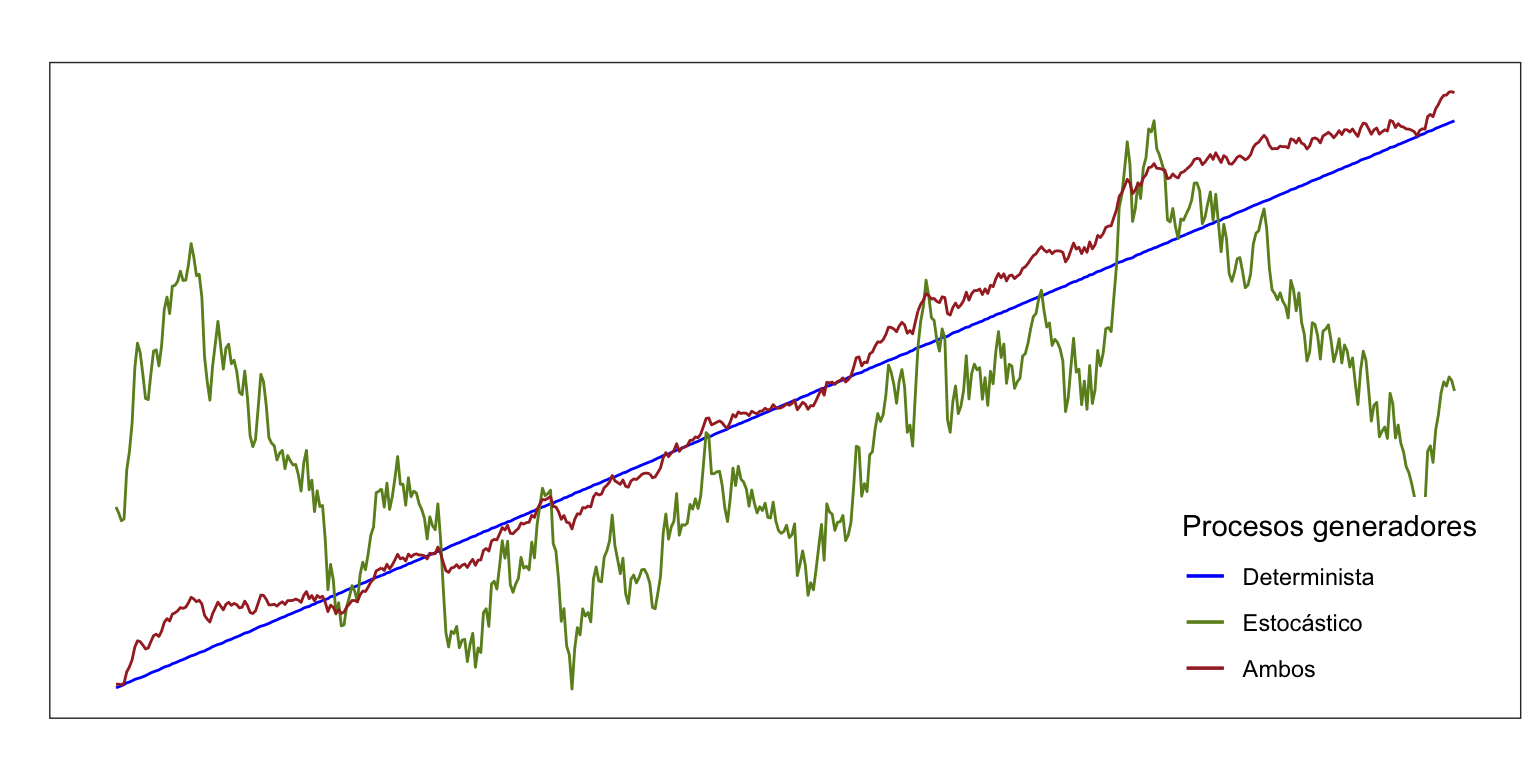
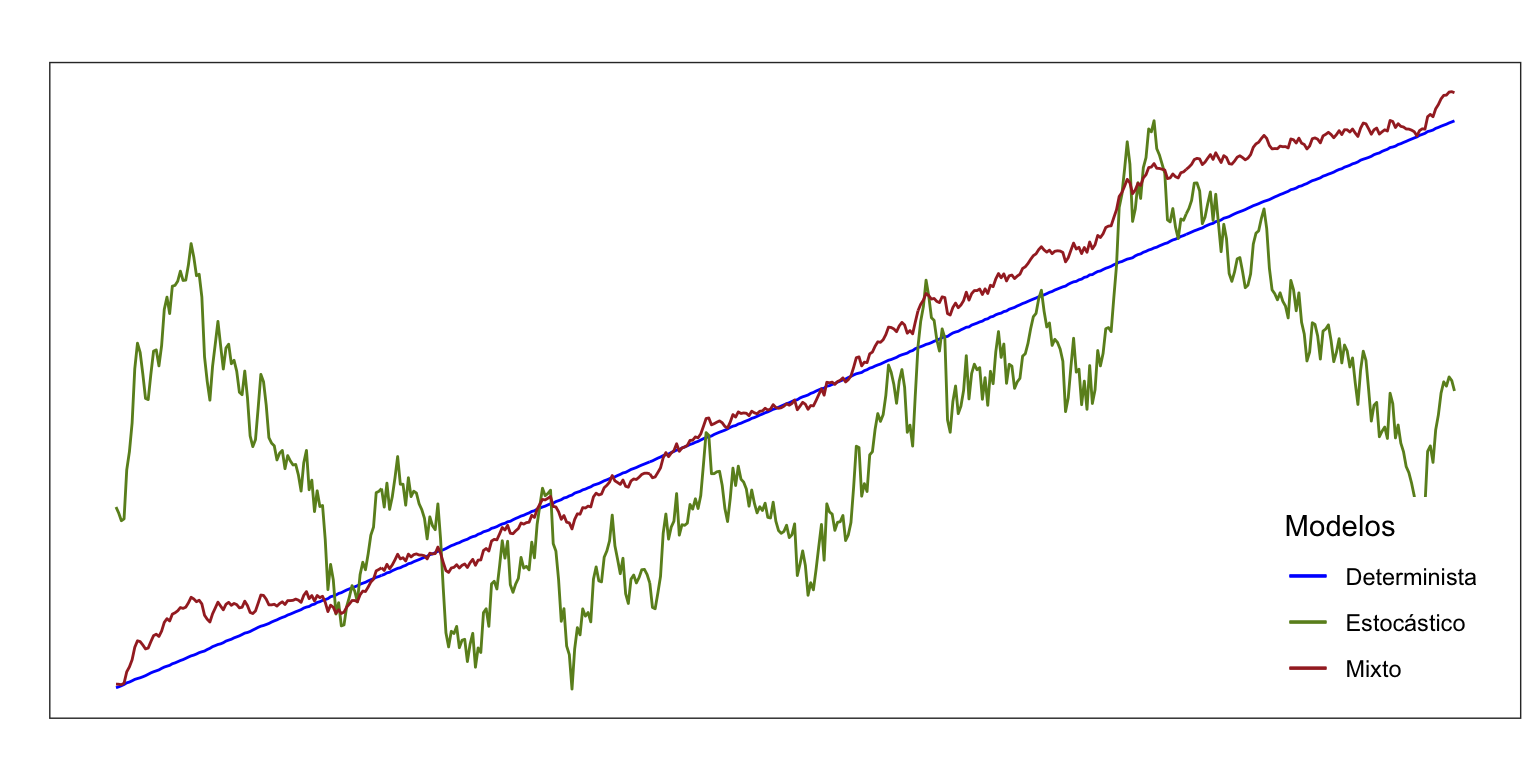
Errores en Tema 2

Changed region(s): [[0.75, 0.6562, 0.9688, 0.9062]]

diff --git a/docs/03-02-Tema2.html b/docs/03-02-Tema2.html
@@ -396,18 +396,18 @@ div.csl-indent {
 <p><strong>Una serie temporal es una variable medida secuencialmente en el tiempo a intervalos equiespaciados</strong>.</p>
 <p>La representaremos por,</p>
 <p><span class="math display">\[\{y_t\}_{t=1}^T=\{y_1,y_2,\ldots,y_T\}.\]</span></p>
-<p>La serie aparece indexada por su fechado <span class="math inline">\(t\)</span> y el subíndice <span class="math inline">\(T\)</span> hará siempre referencia a la fecha del último dato.</p>
+<p>La serie aparece indexada por su fechado <span class="math inline">\(t\)</span> y el valor <span class="math inline">\(T\)</span> hará siempre referencia a la fecha del último dato.</p>
 <p>El fechado varía en su frecuencia, que puede ser anual (baja frecuencia), trimestral, mensual, semanal, diario (alta frecuencia) o disponer casi de un continuo de datos.</p>
 <p><br>
 </p>
 </section>
 <section id="proceso-generador-de-datos" class="level2" data-number="1.2">
 <h2 data-number="1.2" class="anchored" data-anchor-id="proceso-generador-de-datos"><span class="header-section-number">1.2</span> Proceso generador de datos</h2>
-<p>El proceso generador de los datos de una serie temporal es en general desconocido, pero se puede aproximar por un modelo estadístico. Estos modelos se pueden clasificar en tres grandes familias según su naturaleza: deterministas, estocásticos y ambos.</p>
+<p>El proceso generador de los datos de una serie temporal es en general desconocido, pero se puede aproximar por un modelo estadístico. Estos modelos se pueden clasificar en tres grandes familias según su naturaleza: deterministas, estocásticos y mixtos</p>
 <p>En ocasiones las series temporales pueden ser modeladas de forma <strong>determinista</strong> ajustando los datos a funciones matemáticas: <span class="math display">\[y_t=f(t)+\varepsilon_t.\]</span></p>
-<p>En los <strong>procesos estocásticos</strong> las observaciones cercanas en el tiempo tienden a estar (cor)relacionadas y se puede aprovechar esta dependencia para entender la serie y predecirla: <span class="math display">\[y_t=f(y_{t-1},y_{t-2},\ldots)+\varepsilon_t.\]</span></p>
-<p>A veces, ambas situaciones se dan simultáneamente: <span class="math display">\[y_t=f(t,y_{t-1},y_{t-2},\ldots)+\varepsilon_t.\]</span></p>
-<p>La <a href="#fig-procesosgeneradores">Figura&nbsp;1</a> muestra un ejemplo gráfico de estos tres procesos generadores.</p>
+<p>Si las observaciones cercanas en el tiempo tienden a estar (cor)relacionadas, se puede aprovechar esta dependencia para entender la serie y predecirla con un <strong>modelo estocástico</strong>: <span class="math display">\[y_t=f(y_{t-1},y_{t-2},\ldots)+\varepsilon_t.\]</span></p>
+<p>A veces, ambas situaciones se dan simultáneamente (<strong>modelos mixtos</strong>): <span class="math display">\[y_t=f(t,y_{t-1},y_{t-2},\ldots)+\varepsilon_t.\]</span></p>
+<p>La <a href="#fig-procesosgeneradores">Figura&nbsp;1</a> muestra un ejemplo gráfico de estos tres modelos estadísticos. La complejidad de la serie es mayor en los modelos con parte estocástica.</p>
 <div class="cell" data-layout-align="center">
 <div class="cell-output-display">
 <div id="fig-procesosgeneradores" class="quarto-figure quarto-figure-center anchored">
@@ -451,7 +451,7 @@ Ojo con la lectura de datos
 <p>En cualquiera de estas funciones puedes modificar el separador decimal por medio del argumento <code>dec</code>; también puedes usar el argumento <code>sep</code> para indicar el carácter usado como separador de variables.</p>
 </div>
 </div>
-<p>La función <code>ts</code>, de la librería <code>stats</code>, convierte un objeto (vector o matriz) a la clase <em>serie temporal</em>. En este caso seleccionamos solo la segunda columna, la que contiene el número de títulos publicados.</p>
+<p>La función <code>ts</code>, de la librería <code>stats</code>, convierte un objeto (vector o matriz) en la clase <em>serie temporal</em>. En este caso seleccionamos solo la segunda columna, la que contiene el número de títulos publicados.</p>
 <ul>
 <li>Con <code>start</code> indicamos el fechado del primer dato.</li>
 <li>Con <code>frequency</code> indicamos la frecuencia, que en este caso es un dato por año.</li>
@@ -522,7 +522,7 @@ Nombre del fichero y nombre de la serie
 </div>
 <p>En este caso:</p>
 <ul>
-<li>Con <code>start</code> indicamos que el primer dato es enero de 1975. También sería correcto <code>start = 1975</code>. Si el primer dato fuera, por ejemplo, marzo de 1975, deberíamos poner <code>start = c(1975, 3)</code> o <code>start = 1975 + 2/12</code>.</li>
+<li>Con <code>start</code> indicamos que el primer dato es enero de 1975. También sería correcto <code>start = 1975</code>. Si el primer dato fuera, por ejemplo, marzo de 1975, podríamos poner <code>start = c(1975, 3)</code> o <code>start = 1975 + 2/12</code>.</li>
 <li>Con <code>frequency</code> indicamos que se tienen 12 datos (meses) por año. Si la serie fuera trimestral pondríamos <code>frequency = 4</code>.</li>
 </ul>
 <div class="cell" data-layout-align="center">
@@ -648,7 +648,7 @@ Fechado de la serie
 </div>
 </div>
 <div class="callout-body-container callout-body">
-<p>¿Tienes claro cómo se guarda internamente el fechado de una serie? ¿Qué indican los valores decimales?</p>
+<p>¿Tienes claro cómo R guarda internamente el fechado de una serie? ¿Qué indican los valores decimales?</p>
 </div>
 </div>
 <ul>
@@ -679,6 +679,7 @@ Frequency = 7
 </section>
 <section id="componentes-de-una-serie-temporal-y-su-combinación" class="level1" data-number="2">
 <h1 data-number="2"><span class="header-section-number">2</span> Componentes de una serie temporal y su combinación</h1>
+<p>Toda serie temporal es la combinación de hasta cinco componentes: tendencia, ciclo, estacionalidad, intervención y residuo.</p>
 <p><br>
 </p>
 <section id="tendencia-t_t" class="level2" data-number="2.1">
@@ -833,9 +834,7 @@ Frequency = 7
 </div>
 </div>
 </div>
-<p><br>
-</p>
-<p>Si el fechado de la serie es de muy alta frecuencia, puede ocurrir que se superponga más de una componente estacional. La <a href="#fig-estacionalidadmultiple">Figura&nbsp;10</a> muestra la serie corresponde a la demanda eléctrica (GW) recogida cada hora durante el mes de febrero de 2021. El eje OX señala el consumo la primera hora de cada día del mes (desde media noche hasta la una de la madrugada). Se aprecia una estacionalidad diaria de orden <span class="math inline">\(24\)</span>, otra semanal de orden <span class="math inline">\(7 \times 24\)</span> y si mostráramos varios años de consumo, también se observaría otra mensual.</p>
+<p>Si el fechado de la serie es de muy alta frecuencia, puede ocurrir que se superponga más de una componente estacional. La <a href="#fig-estacionalidadmultiple">Figura&nbsp;10</a> muestra la serie corresponde a la demanda eléctrica (GW) recogida cada hora durante el mes de febrero de 2021. El eje OX señala el consumo de la primera hora de cada día del mes (desde media noche hasta la una de la madrugada). Se aprecia una estacionalidad diaria de orden <span class="math inline">\(24\)</span>, otra semanal de orden <span class="math inline">\(168 =7 \times 24\)</span> y si mostráramos varios años de consumo, también se observaría otra mensual.</p>
 <div class="cell" data-layout-align="center">
 <div class="cell-output-display">
 <div id="fig-estacionalidadmultiple" class="quarto-figure quarto-figure-center anchored">
@@ -881,7 +880,7 @@ Series con más de una componente estacional
 </div>
 </div>
 </div>
-<p>En la serie diaria Electricidad cuando un día entre semana es festivo, el consumo se reduce notablemente apareciendo un efecto calendario. Si se trata de un día aislado, el efecto es muy fácil de identificar y analizar. Un ejemplo, observable en la <a href="#fig-intervencionelectricidad">Figura&nbsp;12</a>, es el martes 1 de noviembre de 2021, día de Todos los Santos, identificado con un punto rojo en la figura. Se aprecia que el consumo fue muy inferior al observado el martes precedente y posterior (puntos verdes). Si los festivos abarcan varios días, el efecto sigue siendo perfectamente identificable, pero es más complejo de analizar. Un ejemplo es la última semana de diciembre donde el consumo es muy inferior al observado en las semanas previas debido, por un lado, al efecto del día festivo de Navidad (punto azul) y, por otro lado, al periodo semi-vacacional que estas festividades supone en España. También se aprecia la intervención asociada a la semana que contiene los festivos de la Constitución y la Inmaculada (martes 6 y jueves 8 de diciembre).</p>
+<p>En la serie diaria Electricidad cuando un día entre semana es festivo, el consumo se reduce notablemente apareciendo un efecto calendario. Si se trata de un día aislado, el efecto es muy fácil de identificar y analizar. Un ejemplo, observable en la <a href="#fig-intervencionelectricidad">Figura&nbsp;12</a>, es el martes 1 de noviembre de 2022, día de Todos los Santos, identificado con un punto rojo en la figura. Se aprecia que el consumo fue muy inferior al observado el martes precedente y posterior (puntos verdes). Si los festivos abarcan varios días, el efecto sigue siendo perfectamente identificable, pero es más complejo de analizar. Un ejemplo es la última semana de diciembre donde el consumo es muy inferior al observado en las semanas previas debido, por un lado, al efecto del día festivo de Navidad (punto azul) y, por otro lado, al periodo semi-vacacional que estas festividades supone en España. También se aprecia la intervención asociada a la semana que contiene los festivos de la Constitución y la Inmaculada (martes 6 y jueves 8 de diciembre).</p>
 <div class="cell" data-layout-align="center">
 <div class="cell-output-display">
 <div id="fig-intervencionelectricidad" class="quarto-figure quarto-figure-center anchored">
@@ -896,15 +895,15 @@ Series con más de una componente estacional
 <dl>
 <dt><em>Pulso (Additive Outlier, AO)</em></dt>
 <dd>
-<p>En un periodo aislado la serie toma un valor anómalo. Por ejemplo, un día entre semana es festivo y la demanda eléctrica es inferior a la usual. Véase <a href="#fig-intervenciontipos">Figura&nbsp;13</a>, panel derecho.</p>
+<p>En un periodo aislado la serie toma un valor anómalo (véase <a href="#fig-intervenciontipos">Figura&nbsp;13</a>, panel derecho). Por ejemplo, un día entre semana es festivo y la demanda eléctrica es inferior a la usual.</p>
 </dd>
 <dt><em>Cambio transitorio (Transitory Change, TC)</em></dt>
 <dd>
-<p>En un periodo un <em>shock</em> genera un valor anómalo en la serie y el efecto del <em>shock</em> va desapareciendo poco a poco. Por ejemplo, las redes sociales ponen de moda un producto que temporalmente aumenta sus ventas, pero conforme pasa el tiempo los consumidores se olvidan del producto y sus ventas vuelven poco a poco a su nivel natural. Véase <a href="#fig-intervenciontipos">Figura&nbsp;13</a>, panel central.</p>
+<p>En un periodo un <em>shock</em> genera un valor anómalo en la serie y el efecto del <em>shock</em> va desapareciendo poco a poco (véase <a href="#fig-intervenciontipos">Figura&nbsp;13</a>, panel central). Por ejemplo, las redes sociales ponen de moda un producto que temporalmente aumenta sus ventas, pero conforme pasa el tiempo los consumidores se olvidan del producto y sus ventas vuelven poco a poco a su nivel previo</p>
 </dd>
 <dt><em>Cambio permanente (Level Shift, LS)</em></dt>
 <dd>
-<p>En un periodo la serie cambia de nivel y permanece de forma permanente en este nuevo nivel. Por ejemplo, enfrente de un supermercado abre la competencia, de forma que sus ventas descienden bruscamente de forma permanente. Véase <a href="#fig-intervenciontipos">Figura&nbsp;13</a>, panel izquierdo.</p>
+<p>En un periodo la serie cambia de nivel y permanece de forma permanente en este nuevo nivel (véase <a href="#fig-intervenciontipos">Figura&nbsp;13</a>, panel izquierdo). Por ejemplo, enfrente de un supermercado abre la competencia, de forma que sus ventas descienden bruscamente de forma permanente.</p>
 </dd>
 </dl>
 <div class="cell" data-layout-align="center">
@@ -957,7 +956,7 @@ Series con más de una componente estacional
 <p></p><figcaption class="figure-caption">Figura&nbsp;14: Ejemplo de esquema aditivo</figcaption><p></p>
 </figure>
 </div>
-<p>En el <strong>esquema multiplicativo</strong> cada componente supone un incremento porcentual respecto de las demás, <span class="math inline">\(y_t = T_t \cdot S_t \cdot C_t \cdot I_t \cdot R_t\)</span>. La serie Nacimientos es un ejemplo de esquema multiplicativo: en el gráfico superior de la <a href="#fig-esquemamultiplicativo">Figura&nbsp;15</a>, que muestra la serie, se observa que según decrece el número de nacimientos, también decrece la amplitud estacional. Además, en el gráfico inferior cada punto corresponde a un año, en el eje X los nacimientos anuales y en el eje Y la desviación típica de los nacimientos mensuales. En este gráfico se observa un patrón creciente en los puntos, revelando el esquema multiplicativo de la serie.</p>
+<p>En el <strong>esquema multiplicativo</strong> cada componente supone un incremento porcentual respecto de las demás, <span class="math inline">\(y_t = T_t \cdot S_t \cdot C_t \cdot I_t \cdot R_t\)</span>. La serie Nacimientos es un ejemplo de esquema multiplicativo: en el gráfico superior de la <a href="#fig-esquemamultiplicativo">Figura&nbsp;15</a>, que muestra la serie, se observa que según decrece el número de nacimientos, también decrece la amplitud estacional. Además, en el gráfico inferior cada punto corresponde a un año: en el eje X los nacimientos de ese año y en el eje Y la desviación típica de los nacimientos mensuales de ese año. En este gráfico se observa un patrón creciente en los puntos, revelando el esquema multiplicativo de la serie.</p>
 <div id="fig-esquemamultiplicativo" class="cell quarto-layout-panel">
 <figure class="figure">
 <div class="quarto-layout-row quarto-layout-valign-top">
@@ -1074,11 +1073,11 @@ Atención
 <section id="extracción-de-la-estacionalidad" class="level2" data-number="3.3">
 <h2 data-number="3.3" class="anchored" data-anchor-id="extracción-de-la-estacionalidad"><span class="header-section-number">3.3</span> Extracción de la estacionalidad</h2>
 <p>Tenemos varias alternativas gráficas y numéricas para analizar la estacionalidad de una serie. Veamos un ejemplo para la serie Nacimientos.</p>
-<p>Podemos hacer una gráfico de la serie <em>contra</em> cada periodo estacional. Este gráfico permite identificar el efecto de la estacionalidad en la serie y su evolución en el tiempo. Existen varias opciones para este tipo de gráficos, veremos dos de ellas: gráfico de subseries y gráfico de líneas. Para facilitar la interpretación vamos a trabajar con la serie desde el año 2000 hasta el año 2019, que denominaremos <em>nacimientosb</em>.</p>
+<p>Podemos hacer una gráfico de la serie <em>contra</em> cada periodo estacional. Este gráfico permite identificar el efecto de la estacionalidad en la serie y su evolución en el tiempo. Existen varias opciones para este tipo de gráficos, veremos dos de ellas: gráfico de subseries y gráfico de líneas. Para facilitar la interpretación vamos a trabajar con la serie desde el año 2000, que denominaremos <em>nacimientosb</em>.</p>
 <div class="cell" data-layout-align="center">
 <div class="sourceCode cell-code" id="cb28"><pre class="sourceCode r code-with-copy"><code class="sourceCode r"><span id="cb28-1"><a href="#cb28-1" aria-hidden="true" tabindex="-1"></a>nacimientosb <span class="ot">&lt;-</span> <span class="fu">window</span>(nacimientos, <span class="at">start =</span> <span class="dv">2000</span>, <span class="at">end =</span> <span class="fu">c</span>(<span class="dv">2019</span>, <span class="dv">12</span>))</span></code><button title="Copy to Clipboard" class="code-copy-button"><i class="bi"></i></button></pre></div>
 </div>
-<p>Veamos primero un ejemplo de gráfico de subseries (<a href="#fig-estacionalsubseriesnacimientos">Figura&nbsp;18</a>) que muestra para cada periodo estacional la subserie de valores de ese periodo y el valor medio de la subserie. Para las series con tendencia y esquema multiplicativo, el valor medio de las subseries (líneas horizontales) puede llevarnos a una interpretación incorrecta de la estacionalidad. (La función <code>monthplot</code> de <code>stats</code> realiza un gráfico similar.)</p>
+<p>Veamos primero un ejemplo de gráfico de subseries (<a href="#fig-estacionalsubseriesnacimientos">Figura&nbsp;18</a>) que muestra para cada periodo estacional la subserie de valores de ese periodo y el valor medio de la subserie (líneas horizontales). Para las series con tendencia y esquema multiplicativo, el valor medio de las subseries puede llevarnos a una interpretación incorrecta de la estacionalidad. La función <code>monthplot</code> de <code>stats</code> realiza un gráfico similar.</p>
 <div class="cell" data-layout-align="center">
 <div class="sourceCode cell-code" id="cb29"><pre class="sourceCode r code-with-copy"><code class="sourceCode r"><span id="cb29-1"><a href="#cb29-1" aria-hidden="true" tabindex="-1"></a><span class="fu">ggsubseriesplot</span>(nacimientosb) <span class="sc">+</span></span>
 <span id="cb29-2"><a href="#cb29-2" aria-hidden="true" tabindex="-1"></a>  <span class="fu">ylab</span>(<span class="st">"Nacimientos"</span>) <span class="sc">+</span></span>
@@ -1093,10 +1092,10 @@ Atención
 </div>
 </div>
 </div>
-<p>La <a href="#fig-estacionallineasnacimientos">Figura&nbsp;19</a> muestra el gráfico de líneas. Si se incluye el argumento <code>polar=TRUE</code>, se obtiene una versión tipo <em>tela de araña</em> de este gráfico.</p>
+<p>La <a href="#fig-estacionallineasnacimientos">Figura&nbsp;19</a> muestra el gráfico de líneas. Se observa perfectamente el efecto de la pandemia sobre el número de nacimientos desde noviembre de 2020. Si se incluye el argumento <code>polar=TRUE</code>, se obtiene una versión tipo <em>tela de araña</em> de este gráfico.</p>
 <div class="cell" data-layout-align="center">
-<div class="sourceCode cell-code" id="cb30"><pre class="sourceCode r code-with-copy"><code class="sourceCode r"><span id="cb30-1"><a href="#cb30-1" aria-hidden="true" tabindex="-1"></a><span class="fu">ggseasonplot</span>(nacimientosb, </span>
-<span id="cb30-2"><a href="#cb30-2" aria-hidden="true" tabindex="-1"></a>             <span class="at">year.labels=</span><span class="cn">TRUE</span>, </span>
+<div class="sourceCode cell-code" id="cb30"><pre class="sourceCode r code-with-copy"><code class="sourceCode r"><span id="cb30-1"><a href="#cb30-1" aria-hidden="true" tabindex="-1"></a><span class="fu">ggseasonplot</span>(nacimientosb,</span>
+<span id="cb30-2"><a href="#cb30-2" aria-hidden="true" tabindex="-1"></a>             <span class="at">year.labels =</span> <span class="cn">TRUE</span>, </span>
 <span id="cb30-3"><a href="#cb30-3" aria-hidden="true" tabindex="-1"></a>             <span class="at">xlab =</span> <span class="st">""</span>,</span>
 <span id="cb30-4"><a href="#cb30-4" aria-hidden="true" tabindex="-1"></a>             <span class="at">ylab =</span> <span class="st">"Nacimientos"</span>,</span>
 <span id="cb30-5"><a href="#cb30-5" aria-hidden="true" tabindex="-1"></a>             <span class="at">main =</span> <span class="st">""</span>)</span></code><button title="Copy to Clipboard" class="code-copy-button"><i class="bi"></i></button></pre></div>
@@ -1550,7 +1549,7 @@ Media movil centrada y no centrada
 </div>
 </div>
 </div>
-<p>También podemos ver las componentes estacionales y verificar que suman 0. Ojo, como la serie empieza un sábado, la primera componente que se muestra es la del sábado y la última la del viernes.</p>
+<p>También podemos ver la componente estacional y verificar que suma 0. Ojo, como la serie empieza un sábado, el valor de la primera componente que se muestra es la del sábado y el valor de la última es la del viernes.</p>
 <div class="cell" data-layout-align="center">
 <div class="sourceCode cell-code" id="cb39"><pre class="sourceCode r code-with-copy"><code class="sourceCode r"><span id="cb39-1"><a href="#cb39-1" aria-hidden="true" tabindex="-1"></a>eleDesAdi<span class="sc">$</span>figure</span></code><button title="Copy to Clipboard" class="code-copy-button"><i class="bi"></i></button></pre></div>
 <div class="cell-output cell-output-stdout">
@@ -1603,7 +1602,7 @@ Media movil centrada y no centrada
 </div>
 </div>
 <p>Observa que por tratarse de un esquema multiplicativo en la <a href="#fig-desmulnaci">Figura&nbsp;23</a> la componente estacional se mueve alrededor del valor 1 y debe interpretarse como una variación porcentual. Igualmente, el residuo también gira en torno al valor 1.</p>
-<p>Las componentes estacionales se deben interpretar como incrementos porcentuales: en febrero nacen un 9.1% menos de niños y en octubre un 3.6% más, respecto de la media anual. Además, la suma de las componentes estacionales será 12.</p>
+<p>Los valores de la componente estacional se deben interpretar como incrementos porcentuales: en febrero nacen un 9.1% menos de niños y en octubre un 3.6% más, respecto de la media anual. Además, la suma de los valores de la componente estacional será 12.</p>
 <div class="cell" data-layout-align="center">
 <div class="sourceCode cell-code" id="cb45"><pre class="sourceCode r code-with-copy"><code class="sourceCode r"><span id="cb45-1"><a href="#cb45-1" aria-hidden="true" tabindex="-1"></a>nacDesMul<span class="sc">$</span>figure</span></code><button title="Copy to Clipboard" class="code-copy-button"><i class="bi"></i></button></pre></div>
 <div class="cell-output cell-output-stdout">
@@ -1632,7 +1631,7 @@ Media movil centrada y no centrada
 </ul>
 <p>Su <strong>principal desventaja</strong> es que esta técnica de descomposición solo es válida para esquemas aditivos. Es posible obtener con <code>stl</code> una descomposición multiplicativa descomponiendo primero el logaritmo de la serie, para después calcular la exponencial de las componentes.</p>
 <p>La función <code>stl</code> genera un objeto con la componente <code>$time.series</code> que contiene en columna tres series temporales: <em>seasonal</em>, <em>trend</em> y <em>remainder</em> (de nuevo usa <code>names</code> y <code>str</code> para aprender más).</p>
-<p>Los dos parámetros principales que deben elegirse cuando se utiliza <code>stl</code> son la ventana de tendencia (<code>t.window</code>) y la ventana estacional (<code>s.window</code>). Estos parámetros controlan la rapidez con la que pueden cambiar los componentes de tendencia y estacional con el tiempo. Valores pequeños permiten cambios más rápidos, valores grandes implican que no hay cambios. Ambos parámetros deben ser números impares:</p>
+<p>Los dos parámetros principales que deben elegirse cuando se utiliza <code>stl</code> son la ventana de tendencia (<code>t.window</code>) y la ventana estacional (<code>s.window</code>). Estos parámetros controlan la rapidez con la que pueden cambiar los componentes de tendencia y estacionalidad con el tiempo. Valores pequeños permiten cambios más rápidos, valores grandes implican que no hay cambios. Ambos parámetros deben ser números impares:</p>
 <ul>
 <li><code>t.window</code> es el número de observaciones consecutivas que se deben utilizar al estimar la tendencia. Consulta la ayuda para ver el valor por defecto.</li>
 <li><code>s.window</code> está relacionado con el número observaciones que se deben utilizar al estimar cada valor de la componente estacional. No hay ningún valor por defecto para este parámetro. Establecerlo como <code>periodic</code> equivale a que la componente estacional sea periódica (es decir, idéntica a lo largo de los años). Si es un valor numérico, debe ser impar y mayor o igual a 7.</li>
@@ -1645,11 +1644,11 @@ Media movil centrada y no centrada
 <div class="sourceCode cell-code" id="cb49"><pre class="sourceCode r code-with-copy"><code class="sourceCode r"><span id="cb49-1"><a href="#cb49-1" aria-hidden="true" tabindex="-1"></a>eleStl <span class="ot">&lt;-</span> <span class="fu">stl</span>(electricidad, </span>
 <span id="cb49-2"><a href="#cb49-2" aria-hidden="true" tabindex="-1"></a>              <span class="at">s.window =</span> <span class="st">"periodic"</span>,</span>
 <span id="cb49-3"><a href="#cb49-3" aria-hidden="true" tabindex="-1"></a>              <span class="at">robust =</span> <span class="cn">TRUE</span>)</span>
-<span id="cb49-4"><a href="#cb49-4" aria-hidden="true" tabindex="-1"></a><span class="fu">head</span>(eleStl<span class="sc">$</span>time.series)</span></code><button title="Copy to Clipboard" class="code-copy-button"><i class="bi"></i></button></pre></div>
+<span id="cb49-4"><a href="#cb49-4" aria-hidden="true" tabindex="-1"></a><span class="fu">head</span>(eleStl<span class="sc">$</span>time.series, <span class="at">n =</span> <span class="dv">7</span>)</span></code><button title="Copy to Clipboard" class="code-copy-button"><i class="bi"></i></button></pre></div>
 <div class="cell-output cell-output-stdout">
 <pre><code>Time Series:
 Start = c(1, 6) 
-End = c(2, 4) 
+End = c(2, 5) 
 Frequency = 7 
           seasonal    trend    remainder
 1.714286 -48.49604 657.5318  -73.8957326
@@ -1657,7 +1656,8 @@ Frequency = 7
 2.000000  13.47988 677.6901    0.8000105
 2.142857  30.94559 688.2962   -1.1918358
 2.285714  33.74203 698.9024  -17.5744007
-2.428571  33.43995 708.8728 -124.3727593</code></pre>
+2.428571  33.43995 708.8728 -124.3727593
+2.571429  28.31260 718.8433  -44.1558555</code></pre>
 </div>
 </div>
 <div class="cell" data-layout-align="center">
@@ -1673,17 +1673,9 @@ Frequency = 7
 </div>
 </div>
 </div>
-<p>Podemos ver numéricamente las componentes estacionales, que de nuevo deben sumar cero.</p>
+<p>Podemos comrpobar que los valores de la componente estacional suman cero.</p>
 <div class="cell" data-layout-align="center">
-<div class="sourceCode cell-code" id="cb52"><pre class="sourceCode r code-with-copy"><code class="sourceCode r"><span id="cb52-1"><a href="#cb52-1" aria-hidden="true" tabindex="-1"></a><span class="fu">head</span>(<span class="fu">seasonal</span>(eleStl), <span class="dv">7</span>)</span></code><button title="Copy to Clipboard" class="code-copy-button"><i class="bi"></i></button></pre></div>
-<div class="cell-output cell-output-stdout">
-<pre><code>Time Series:
-Start = c(1, 6) 
-End = c(2, 5) 
-Frequency = 7 
-[1] -48.49604 -91.42401  13.47988  30.94559  33.74203  33.43995  28.31260</code></pre>
-</div>
-<div class="sourceCode cell-code" id="cb54"><pre class="sourceCode r code-with-copy"><code class="sourceCode r"><span id="cb54-1"><a href="#cb54-1" aria-hidden="true" tabindex="-1"></a><span class="fu">sum</span>(<span class="fu">head</span>(<span class="fu">seasonal</span>(eleStl), <span class="dv">7</span>))</span></code><button title="Copy to Clipboard" class="code-copy-button"><i class="bi"></i></button></pre></div>
+<div class="sourceCode cell-code" id="cb52"><pre class="sourceCode r code-with-copy"><code class="sourceCode r"><span id="cb52-1"><a href="#cb52-1" aria-hidden="true" tabindex="-1"></a><span class="fu">sum</span>(<span class="fu">head</span>(<span class="fu">seasonal</span>(eleStl), <span class="dv">7</span>))</span></code><button title="Copy to Clipboard" class="code-copy-button"><i class="bi"></i></button></pre></div>
 <div class="cell-output cell-output-stdout">
 <pre><code>[1] -0.0000001466144</code></pre>
 </div>
@@ -1692,12 +1684,12 @@ Frequency = 7
 </p>
 <p>Para Demanda eléctrica hemos obtenido tres estimaciones de la componente estacional: la primera obtenida con <code>tapply</code>, la segunda obtenida con <code>decompose</code> y la tercera con <code>stl</code>. Se puede observar que las tres estimaciones son muy similares, pero no coincidentes, y aunque los métodos de descomposición son preferibles a <code>tapply</code>, ninguna estimación es <em>a priori</em> mejor que otra.</p>
 <div class="cell" data-layout-align="center">
-<div class="sourceCode cell-code" id="cb56"><pre class="sourceCode r code-with-copy"><code class="sourceCode r"><span id="cb56-1"><a href="#cb56-1" aria-hidden="true" tabindex="-1"></a><span class="co"># tapply</span></span>
-<span id="cb56-2"><a href="#cb56-2" aria-hidden="true" tabindex="-1"></a><span class="fu">round</span>(<span class="fu">as.numeric</span>(componenteEstacional), <span class="dv">2</span>)</span>
-<span id="cb56-3"><a href="#cb56-3" aria-hidden="true" tabindex="-1"></a><span class="co"># decompose</span></span>
-<span id="cb56-4"><a href="#cb56-4" aria-hidden="true" tabindex="-1"></a><span class="fu">round</span>(<span class="fu">seasonal</span>(eleDesAdi)[<span class="fu">c</span>(<span class="dv">3</span><span class="sc">:</span><span class="dv">7</span>, <span class="dv">1</span><span class="sc">:</span><span class="dv">2</span>)], <span class="dv">2</span>)</span>
-<span id="cb56-5"><a href="#cb56-5" aria-hidden="true" tabindex="-1"></a><span class="co"># stl</span></span>
-<span id="cb56-6"><a href="#cb56-6" aria-hidden="true" tabindex="-1"></a><span class="fu">round</span>(<span class="fu">seasonal</span>(eleStl)[<span class="fu">c</span>(<span class="dv">3</span><span class="sc">:</span><span class="dv">7</span>, <span class="dv">1</span><span class="sc">:</span><span class="dv">2</span>)], <span class="dv">2</span>)</span></code><button title="Copy to Clipboard" class="code-copy-button"><i class="bi"></i></button></pre></div>
+<div class="sourceCode cell-code" id="cb54"><pre class="sourceCode r code-with-copy"><code class="sourceCode r"><span id="cb54-1"><a href="#cb54-1" aria-hidden="true" tabindex="-1"></a><span class="co"># tapply</span></span>
+<span id="cb54-2"><a href="#cb54-2" aria-hidden="true" tabindex="-1"></a><span class="fu">round</span>(<span class="fu">as.numeric</span>(componenteEstacional), <span class="dv">2</span>)</span>
+<span id="cb54-3"><a href="#cb54-3" aria-hidden="true" tabindex="-1"></a><span class="co"># decompose</span></span>
+<span id="cb54-4"><a href="#cb54-4" aria-hidden="true" tabindex="-1"></a><span class="fu">round</span>(<span class="fu">seasonal</span>(eleDesAdi)[<span class="fu">c</span>(<span class="dv">3</span><span class="sc">:</span><span class="dv">7</span>, <span class="dv">1</span><span class="sc">:</span><span class="dv">2</span>)], <span class="dv">2</span>)</span>
+<span id="cb54-5"><a href="#cb54-5" aria-hidden="true" tabindex="-1"></a><span class="co"># stl</span></span>
+<span id="cb54-6"><a href="#cb54-6" aria-hidden="true" tabindex="-1"></a><span class="fu">round</span>(<span class="fu">seasonal</span>(eleStl)[<span class="fu">c</span>(<span class="dv">3</span><span class="sc">:</span><span class="dv">7</span>, <span class="dv">1</span><span class="sc">:</span><span class="dv">2</span>)], <span class="dv">2</span>)</span></code><button title="Copy to Clipboard" class="code-copy-button"><i class="bi"></i></button></pre></div>
 </div>
 <div class="cell" data-layout-align="center">
 <div class="cell-output cell-output-stdout">
@@ -1834,7 +1826,7 @@ stl       13.48 30.95 33.74 33.44 28.31 -48.50 -91.42</code></pre>
 </tr>
 </tbody>
 </table>
-<p>Todas las funciones gráficas del paquete <code>forecast</code> requieren tener instalado en R la librería <code>ggplot2</code>.</p>
+<p>Todas las funciones gráficas del paquete <code>forecast</code> requieren tener instalada en R la librería <code>ggplot2</code>.</p>
 <p><br>
 <br>
 <br>
